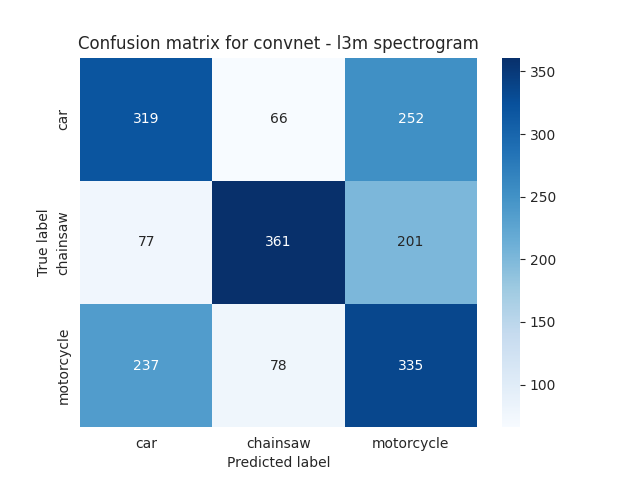
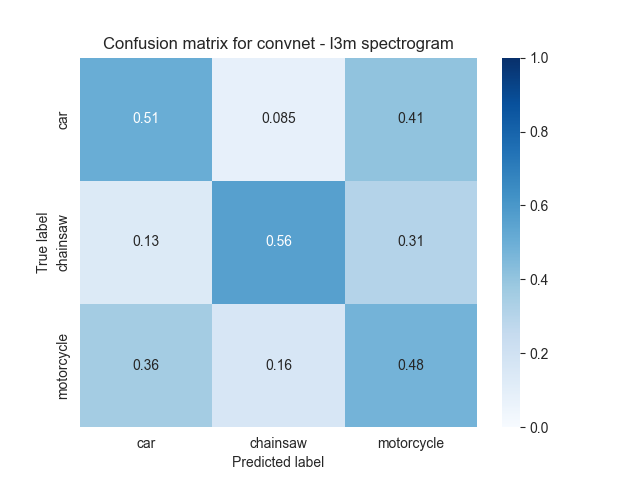
Experiments performed and results updated.

diff --git a/processar_resultados.py b/processar_resultados.py
@@ -55,9 +55,19 @@ def gerar_matrizes_confusao(caminhos_experimentos: list[str]):
         labels_reais = np.hstack(labels_reais)
         labels_pred = np.hstack(labels_pred)
 
-        cm = confusion_matrix(labels_reais, labels_pred)
-        sns.heatmap(cm, annot=True, fmt="d", xticklabels=classes_possiveis,
-                    yticklabels=classes_possiveis, cmap="Blues")
+        cm = confusion_matrix(labels_reais, labels_pred, normalize='true')
+
+        if PASTA_RESULTADOS == 'resultados_urban_sounds':
+            plt.figure(figsize=(11, 9))
+            rotation = 30
+        else:
+            rotation = 0
+        plt.tight_layout()
+        ax = sns.heatmap(
+            cm, annot=True, xticklabels=classes_possiveis,
+            yticklabels=classes_possiveis, cmap="Blues", vmin=0.0, vmax=1.0,
+        )
+        ax.set_xticklabels(ax.get_xticklabels(), rotation=rotation,)
         plt.xlabel("Predicted label")
         plt.ylabel("True label")
         plt.title(f"Confusion matrix for {modelo} - {espectrograma} spectrogram")

diff --git a/config.py b/config.py
@@ -12,12 +12,19 @@ TAM_IMAGENS = {"melspec": 128, "logmel": 128, "l2m": 128, "l3m": 128}
 
 TEMPO_AUDIO_MAXIMO = 2.56 #segundos
 
-NUM_CLASSES = 3
+NUM_CLASSES = 10
 
-CAMINHO_METADADOS = os.path.join("metadata_motosserras", "informacoes_audios.csv")
-# CAMINHO_ARQUIVO_ENTRADA = os.path.join("metadata_motosserras", "motosserras_carros_motos.csv")
+CAMINHO_METADADOS = os.path.join("metadata_urban_sounds", "informacoes_audios.csv")
 
-PASTA_RESULTADOS = "resultados_motosserras"
+PASTA_RESULTADOS = "resultados_urban_sounds"
 
-DIR_DATA = 'data_motosserras'
+DIR_DATA = 'data_urban_sounds'
 DIR_BASE_ESPECTROGRAMAS = os.path.join(DIR_DATA, "spectrograms")
+
+# NUM_CLASSES = 3
+# 
+# CAMINHO_METADADOS = os.path.join("metadata_motosserras", "informacoes_audios.csv")
+# 
+# PASTA_RESULTADOS = "resultados_motosserras"
+# 
+# DIR_DATA = 'data_motosserras'
